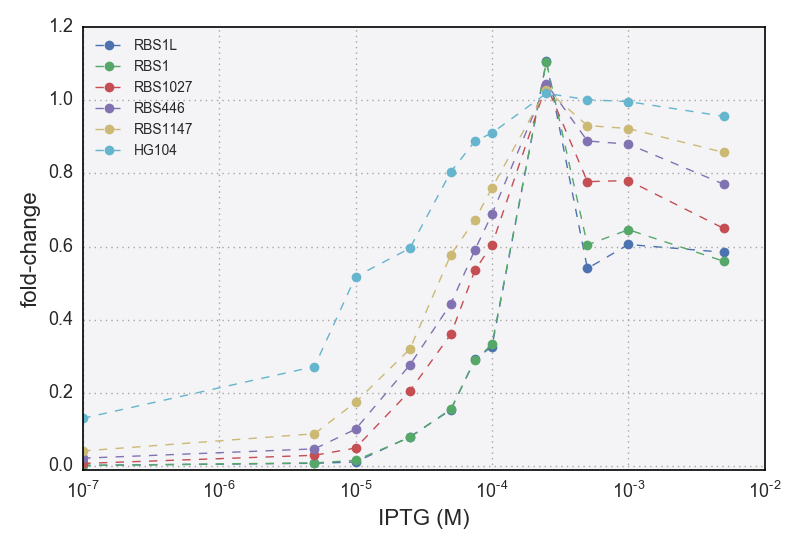
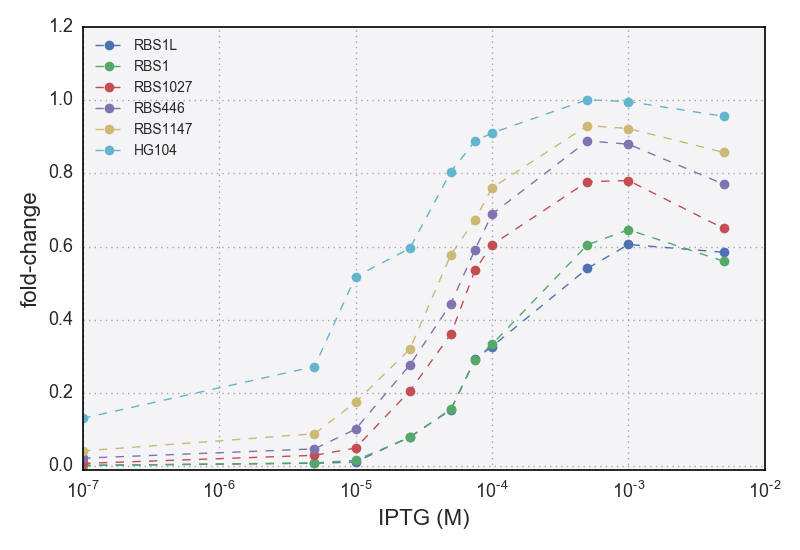
reanalysis of 20160813 r1 and analysis of 20160814

diff --git a/code/processing/20160814_r1_O2_IPTG_titration/processing.py b/code/processing/20160814_r1_O2_IPTG_titration/processing.py
@@ -1,0 +1,122 @@
+import os
+import glob
+# Our numerical workhorses
+import numpy as np
+import pandas as pd
+import scipy
+# Import matplotlib stuff for plotting
+import matplotlib.pyplot as plt
+import matplotlib.cm as cm
+
+# Seaborn, useful for graphics
+import seaborn as sns
+
+# favorite Seaborn settings for notebooks
+rc={'lines.linewidth': 2, 
+    'axes.labelsize' : 16, 
+    'axes.titlesize' : 18,
+    'axes.facecolor' : 'F4F3F6',
+    'axes.edgecolor' : '000000',
+    'axes.linewidth' : 1.2,
+    'xtick.labelsize' : 13,
+    'ytick.labelsize' : 13,
+    'grid.linestyle' : ':',
+    'grid.color' : 'a6a6a6'}
+sns.set_context('notebook', rc=rc)
+sns.set_style('darkgrid', rc=rc)
+sns.set_palette("deep", color_codes=True)
+
+# Import the project utils
+import sys
+sys.path.insert(0, '../../analysis/')
+
+import mwc_induction_utils_processing as mwc
+#=============================================================================== 
+# define variables to use over the script
+date = 20160814
+username = 'nbellive'
+
+# list the directory with the data
+datadir = '../../../data/flow/csv/'
+files = np.array(os.listdir(datadir))
+csv_bool = np.array([str(date) in f and 'csv' in f for f in files])
+files = files[np.array(csv_bool)]
+
+# define the patterns in the file names to read them
+operator = 'O2'
+energy = -13.9
+rbs = np.array(['auto', 'delta', 'RBS1L', 'RBS1', 'RBS1027', 'RBS446', 'RBS1147', 'HG104'])
+repressors = np.array([0, 0, 870, 610, 130, 62, 30, 11])
+
+concentrations = [0, 0.1, 5, 10, 25, 50, 75, 100, 250, 500, 1000, 5000] # uM IPTG
+# define a dictionary that contains the number of well and the concentration
+
+#=============================================================================== 
+# define the parameter alpha for the automatic gating
+alpha = 0.40
+
+# initialize the DataFrame to save the mean expression levels
+df = pd.DataFrame()
+# read the files and compute the mean YFP value
+for i, c in enumerate(concentrations):
+    for j, strain in enumerate(rbs):
+        # find the file
+        try:
+            r_file = glob.glob(datadir + str(date) + '_r1' + '*' + operator + '_' + \
+                    strain + '_' + str(c) + 'uM' + '*csv')
+            print(r_file)
+            # read the csv file
+            dataframe = pd.read_csv(r_file[0])
+            # apply an automatic bivariate gaussian gate to the log front
+            # and side scattering
+            data = mwc.auto_gauss_gate(dataframe, alpha, 
+                                        x_val='FSC-A', y_val='SSC-A',
+                                        log=True)
+            # compute the mean and append it to the data frame along the
+            # operator and strain
+            df = df.append([[date, username, operator, energy, 
+                        strain, repressors[j], c,
+                        data['FITC-A'].mean()]],
+                        ignore_index=True)
+        except:
+            pass
+
+# rename the columns of the data_frame
+df.columns = ['date', 'username', 'operator', 'binding_energy', \
+        'rbs', 'repressors', 'IPTG_uM', 'mean_YFP_A']
+
+# initialize pandas series to save the corrected YFP value
+mean_bgcorr_A = np.array([])
+# correct for the autofluorescence background
+for i in np.arange(len(df)):
+    data = df.loc[i]
+    auto = df[(df.IPTG_uM == data.IPTG_uM) & \
+              (df.rbs == 'auto')].mean_YFP_A
+    mean_bgcorr_A = np.append(mean_bgcorr_A, data.mean_YFP_A - auto)
+
+mean_bgcorr_A = pd.Series(mean_bgcorr_A)
+mean_bgcorr_A.name = 'mean_YFP_bgcorr_A'
+df = pd.concat([df, mean_bgcorr_A], join_axes=[df.index],
+                axis=1, join='inner')
+
+mean_fc_A = np.array([])
+# compute the fold-change
+for i in np.arange(len(df)):
+    data = df.loc[i]
+    delta = df[(df.IPTG_uM == data.IPTG_uM) & \
+              (df.rbs == 'delta')].mean_YFP_bgcorr_A
+    mean_fc_A = np.append(mean_fc_A, data.mean_YFP_bgcorr_A / delta)
+
+mean_fc_A = pd.Series(mean_fc_A)
+mean_fc_A.name = 'fold_change_A'
+df = pd.concat([df, mean_fc_A], join_axes=[df.index], axis=1, join='inner')
+
+# write
+df.to_csv('output/' + str(date) + '_r1_O2_IPTG_titration_MACSQuant.csv', index=False)
+#=============================================================================== 
+# Add the comments to the header of the data file
+filenames = ['./comments.txt', 'output/' + str(date) + '_r1_O2_IPTG_titration_MACSQuant.csv']
+with open('../../../data/' + str(date) + '_r1_O2_IPTG_titration_MACSQuant.csv', 'w') as output:
+    for fname in filenames:
+        with open(fname) as infile:
+            output.write(infile.read())

diff --git a/code/processing/20160814_r1_O2_IPTG_titration/analysis.py b/code/processing/20160814_r1_O2_IPTG_titration/analysis.py
@@ -1,0 +1,69 @@
+import os
+import glob
+# Our numerical workhorses
+import numpy as np
+import pandas as pd
+import scipy
+# Import matplotlib stuff for plotting
+import matplotlib.pyplot as plt
+import matplotlib.cm as cm
+
+# Seaborn, useful for graphics
+import seaborn as sns
+
+# favorite Seaborn settings for notebooks
+rc={'lines.linewidth': 2, 
+    'axes.labelsize' : 16, 
+    'axes.titlesize' : 18,
+    'axes.facecolor' : 'F4F3F6',
+    'axes.edgecolor' : '000000',
+    'axes.linewidth' : 1.2,
+    'xtick.labelsize' : 13,
+    'ytick.labelsize' : 13,
+    'grid.linestyle' : ':',
+    'grid.color' : 'a6a6a6'}
+sns.set_context('notebook', rc=rc)
+sns.set_style('darkgrid', rc=rc)
+sns.set_palette("deep", color_codes=True)
+
+#=============================================================================== 
+# define variables to use over the script
+date = 20160814
+username = 'nbellive'
+
+# read the CSV file with the mean fold change
+df = pd.read_csv('output/' + str(date) + '_r1_O2_IPTG_titration_MACSQuant.csv')
+rbs = df.rbs.unique()
+
+#=============================================================================== 
+
+# plot all raw data
+plt.figure()
+for strain in rbs[np.array([r != 'auto' and r != 'delta' for r in rbs])]:
+    plt.plot(df[df.rbs == strain].sort_values(by='IPTG_uM').IPTG_uM * 1E-6,
+            df[df.rbs == strain].sort_values(by='IPTG_uM').fold_change_A,
+            marker='o', linewidth=1, linestyle='--', label=strain)
+plt.xscale('log')
+plt.xlabel('IPTG (M)')
+plt.ylabel('fold-change')
+plt.ylim([-0.01, 1.2])
+plt.legend(loc='upper left')
+plt.tight_layout()
+plt.savefig('output/O2_IPTG_titration_data.png')
+
+#=============================================================================== 
+
+# plot the curve for the 0 IPTG cultures
+repressor_array = np.logspace(0, 3, 200)
+fc_theory = 1 / (1 + 2 * repressor_array / 5E6 * np.exp(13.9))
+
+plt.figure(figsize=(7, 7))
+plt.plot(repressor_array, fc_theory)
+no_iptg = df.groupby('IPTG_uM').get_group(0)
+plt.plot(no_iptg.repressors, no_iptg.fold_change_A, marker='o', linewidth=0)
+plt.xscale('log')
+plt.yscale('log')
+plt.xlabel('repressor copy number')
+plt.ylabel('fold-change')
+plt.tight_layout()
+plt.savefig('output/O2_lacI_titration_ctrl.png')
